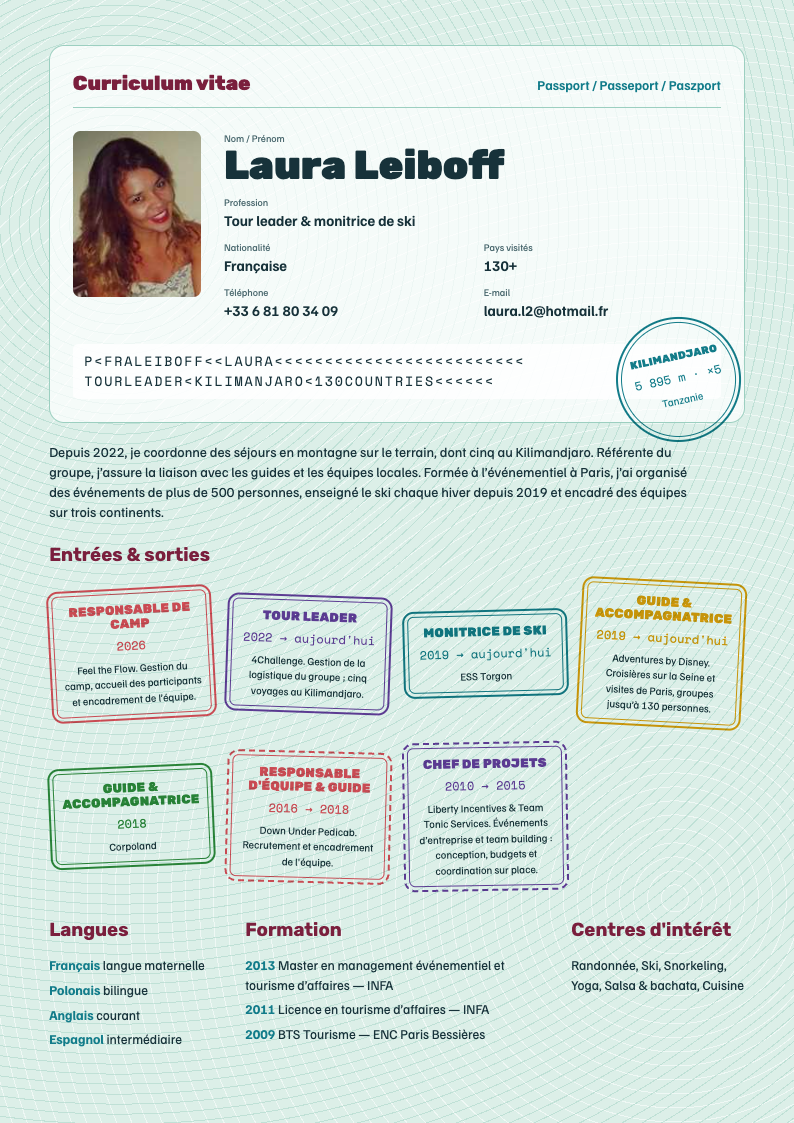
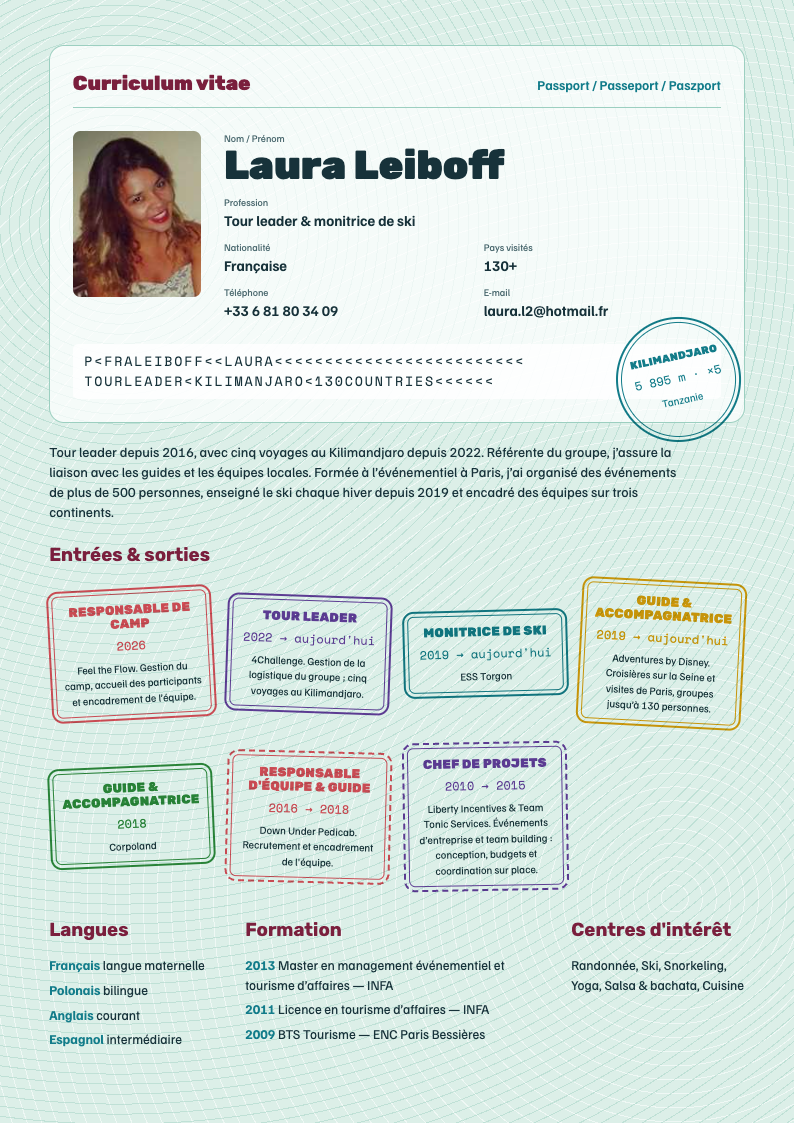
Set tour leader career start to 2016 in both languages

Changed region(s): [[0.0605, 0.374, 0.8766, 0.4675]]

diff --git a/content.js b/content.js
@@ -11,8 +11,8 @@ window.CV_CONTENT = {
     kilimanjaro: '5',
     eventSize: '500+',
     // Short version for tighter layouts; `about` for designs with room for more.
-    intro: 'Tour leader since 2022, supporting groups and liaising with local guides: five Kilimanjaro trips, events for over 500 people and ski instruction since 2019.',
-    about: 'Since 2022, I have coordinated mountain trips on the ground, including five to Kilimanjaro. I am the group’s point of contact and liaise with local guides and crews. Trained in events management in Paris, I have organised events for over 500 people, taught skiing every winter since 2019 and managed teams on three continents.',
+    intro: 'Tour leader since 2016, supporting groups and liaising with local guides: five Kilimanjaro trips, events for over 500 people and ski instruction since 2019.',
+    about: 'Tour leader since 2016, with five Kilimanjaro trips since 2022. I am the group’s point of contact and liaise with local guides and crews. Trained in events management in Paris, I have organised events for over 500 people, taught skiing every winter since 2019 and managed teams on three continents.',
     // [language, level, bar width % used by Summit]
     languages: [
       ['French', 'Native', 100], ['Polish', 'Bilingual', 95],
@@ -75,8 +75,8 @@ window.CV_CONTENT = {
     countries: '130+',
     kilimanjaro: '5',
     eventSize: '500+',
-    intro: 'Tour leader depuis 2022, référente des groupes et interlocutrice des guides locaux : cinq voyages au Kilimandjaro, des événements de plus de 500 personnes et l’enseignement du ski depuis 2019.',
-    about: 'Depuis 2022, je coordonne des séjours en montagne sur le terrain, dont cinq au Kilimandjaro. Référente du groupe, j’assure la liaison avec les guides et les équipes locales. Formée à l’événementiel à Paris, j’ai organisé des événements de plus de 500 personnes, enseigné le ski chaque hiver depuis 2019 et encadré des équipes sur trois continents.',
+    intro: 'Tour leader depuis 2016, référente des groupes et interlocutrice des guides locaux : cinq voyages au Kilimandjaro, des événements de plus de 500 personnes et l’enseignement du ski depuis 2019.',
+    about: 'Tour leader depuis 2016, avec cinq voyages au Kilimandjaro depuis 2022. Référente du groupe, j’assure la liaison avec les guides et les équipes locales. Formée à l’événementiel à Paris, j’ai organisé des événements de plus de 500 personnes, enseigné le ski chaque hiver depuis 2019 et encadré des équipes sur trois continents.',
     languages: [
       ['Français', 'Langue maternelle', 100], ['Polonais', 'Bilingue', 95],
       ['Anglais', 'Courant', 85], ['Espagnol', 'Intermédiaire', 60]
